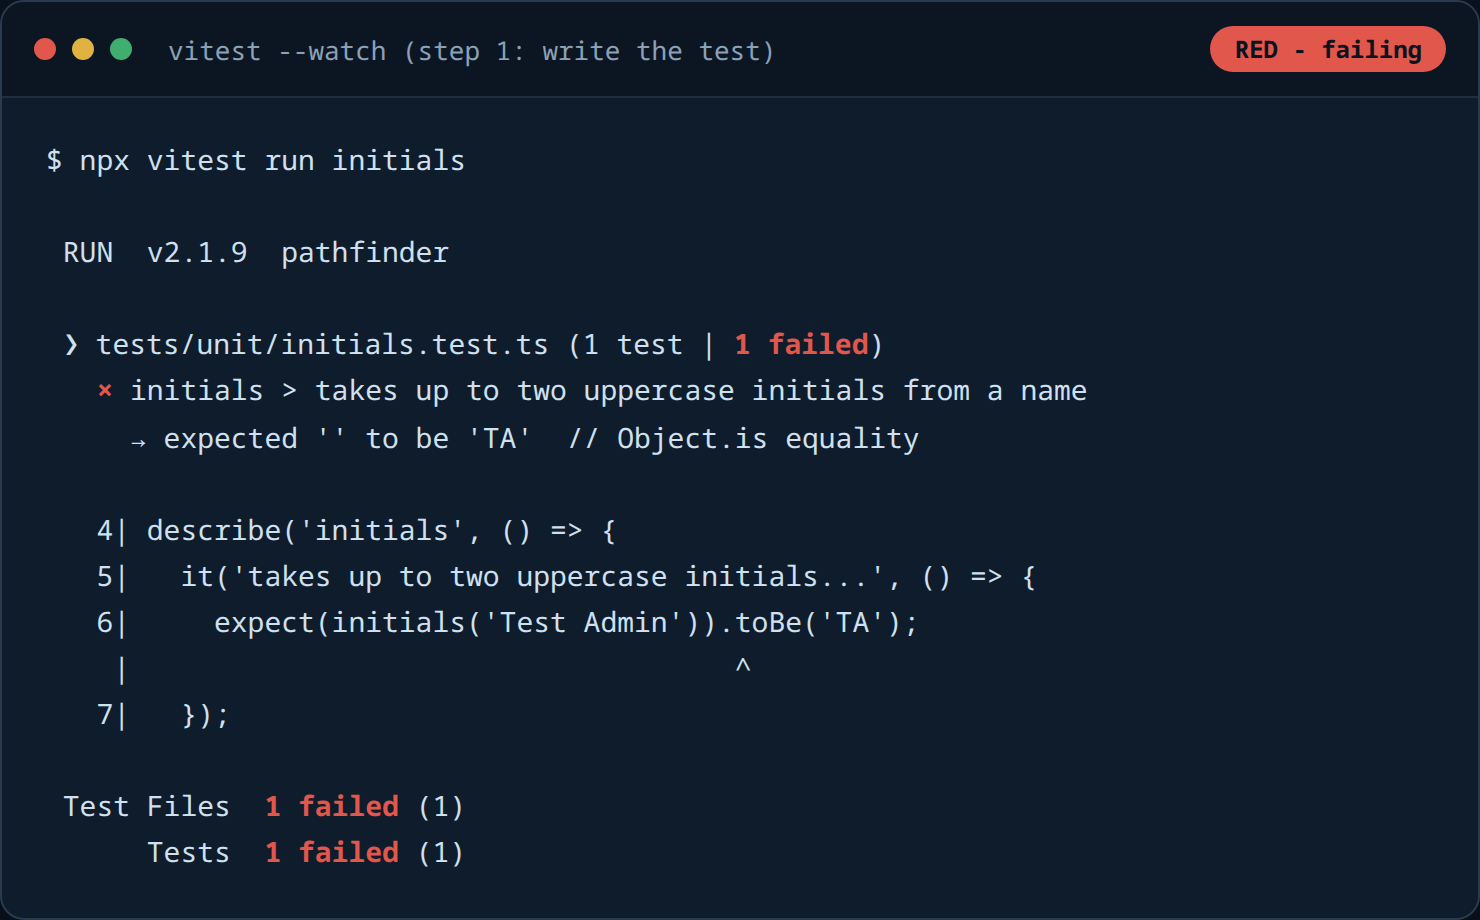
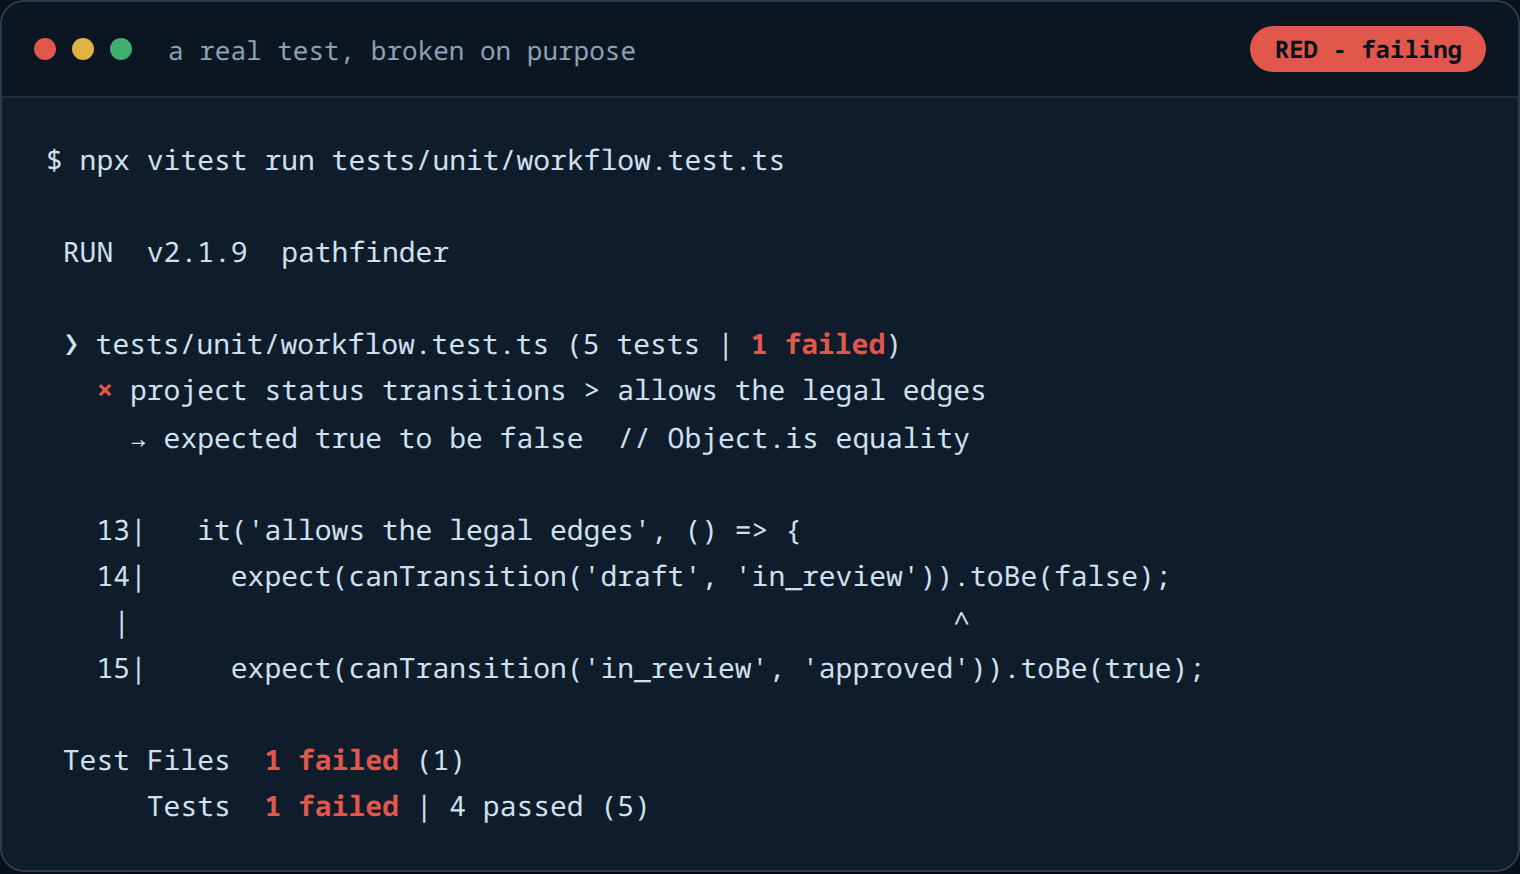
docs: TDD screenshots now reflect the real suite (real failing test + 179 passing)

diff --git a/README.md b/README.md
@@ -206,15 +206,17 @@ contributor (human or AI) follows: [`AGENTS.md`](./AGENTS.md).
 
 ### The red -> green loop
 
-The whole discipline is a tight loop: **write a failing test (red), then write the
-minimal code to pass it (green), then refactor.** Here it is on a real one-line
-helper (`initials("Test Admin") -> "TA"`), captured live from `vitest --watch`:
+The discipline is a tight loop: **a failing test (red) comes first, then the
+minimal code that makes it pass (green), then refactor.** Below is the project's
+actual suite - left, a real test failing (one assertion broken on purpose);
+right, the full `npm run test:unit` run, 179 passing:
 
-| 1. Write the test - it fails | 2. Write the code - it passes |
+| Red - a real test fails | Green - the real suite passes |
 |---|---|
-| ![Failing test](./docs/assets/tdd-red.png) | ![Passing test](./docs/assets/tdd-green.png) |
+| ![A real test failing](./docs/assets/tdd-red.png) | ![The real suite passing](./docs/assets/tdd-green.png) |
 
-Step-by-step runbook for doing this live in a demo:
+Want to perform the loop live? A separate, self-contained runbook walks you
+through writing one tiny test and the code to pass it on stage:
 [`docs/live-tdd-feature.md`](./docs/live-tdd-feature.md).
 
 ## Roadmap